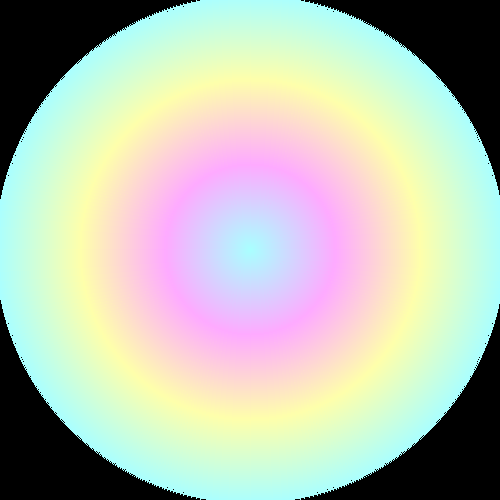
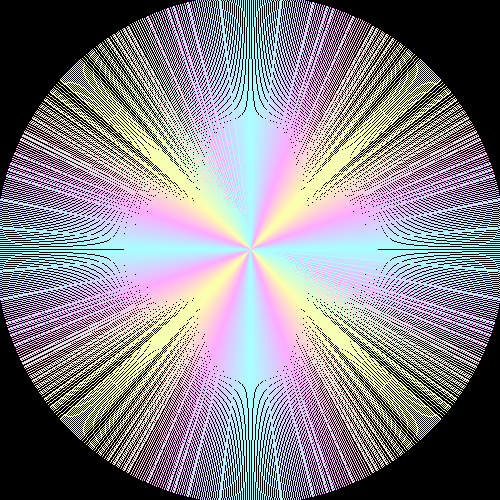
s

diff --git a/main.py b/main.py
@@ -61,6 +61,7 @@ while x <= 200:
     #y1+=1
 '''
 
+'''
 radius = 255
 red = 170
 green = 255
@@ -80,6 +81,57 @@ while radius > 0:
             draw_line(250, 250, x+250, y+250, screen, [red, green, blue])
             draw_line(250, 250, 250-x, y+250, screen, [red, green, blue])
             y+=1
+    radius-=1
+    if radius>170:
+        red+=1
+        blue-=1
+    elif radius>85:
+        blue+=1
+        green-=1
+    else:
+        green+=1
+        red-=1
+'''
+
+radius = 255
+red = 170
+green = 255
+blue = 255
+x = 0-radius
+while x<=radius:
+    y = int(math.floor(math.sqrt(255*255 - (x * x))))
+    if radius%2==0:
+        draw_line(250, 250, x+250, y+250, screen, [red, green, blue])
+        draw_line(250, 250, x+250, 250-y, screen, [red, green, blue])
+    else:
+        draw_line(250, 250, y+250, x+250, screen, [red, green, blue])
+        draw_line(250, 250, 250-y, x+250, screen, [red, green, blue])
+    x+=1
+    radius-=1
+    if radius>170:
+        red+=1
+        blue-=1
+    elif radius>85:
+        blue+=1
+        green-=1
+    else:
+        green+=1
+        red-=1
+
+radius = 255
+red = 170
+green = 255
+blue = 255
+x = radius
+while x>=0-radius:
+    y = int(math.floor(math.sqrt(255*255 - (x * x))))
+    if radius%2==0:
+        draw_line(250, 250, x+250, y+250, screen, [red, green, blue])
+        draw_line(250, 250, x+250, 250-y, screen, [red, green, blue])
+    else:
+        draw_line(250, 250, y+250, x+250, screen, [red, green, blue])
+        draw_line(250, 250, 250-y, x+250, screen, [red, green, blue])
+    x-=1
     radius-=1
     if radius>170:
         red+=1
